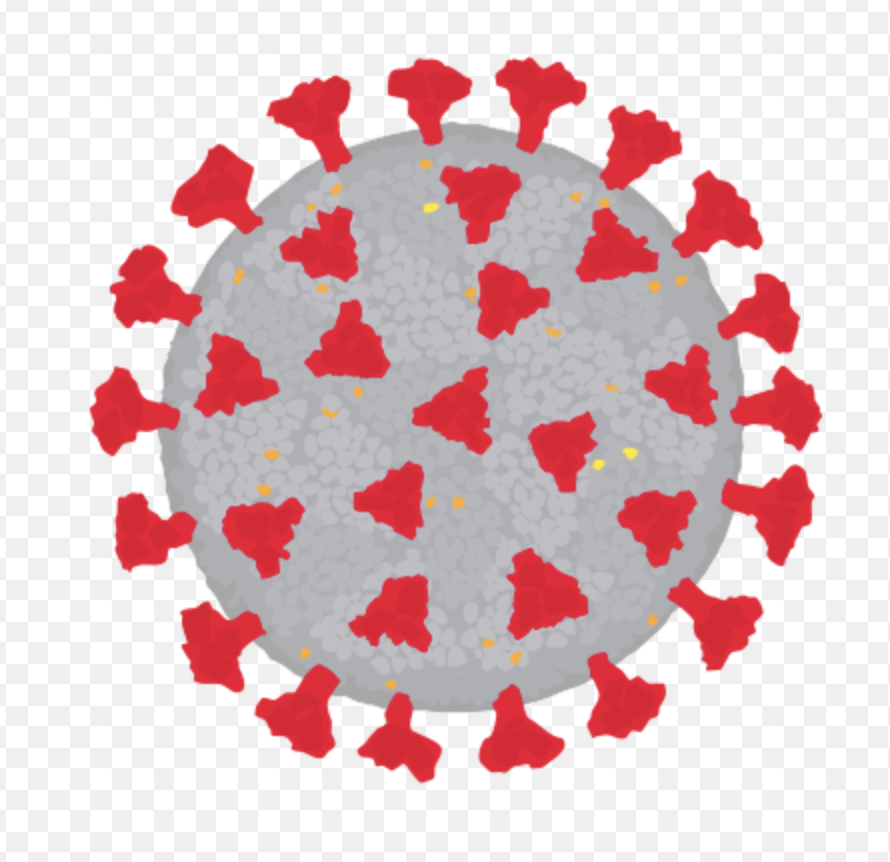
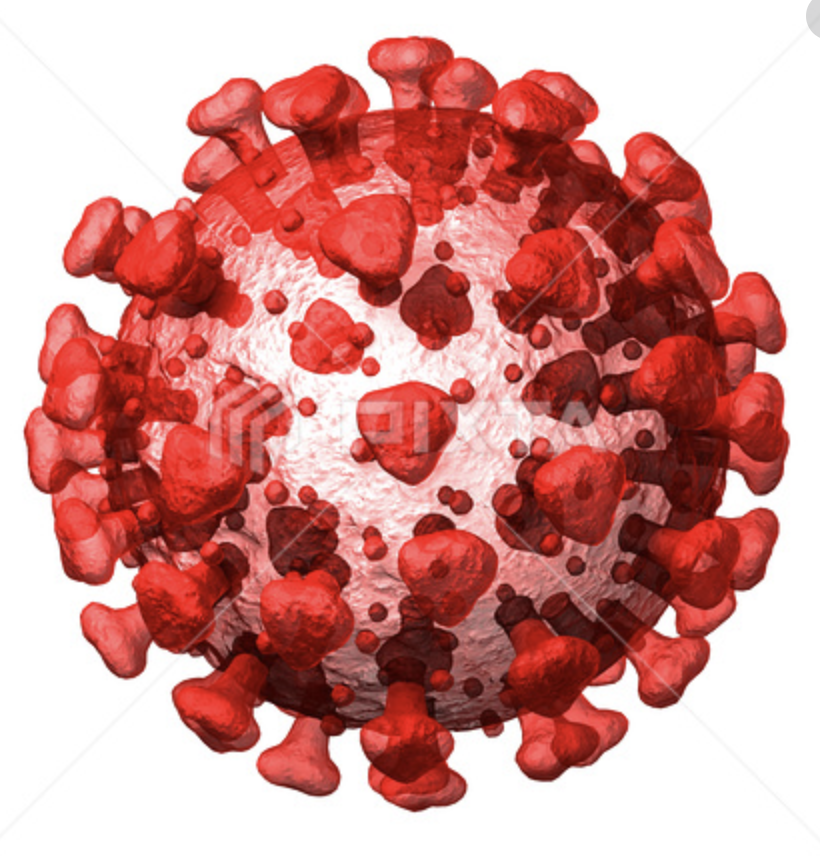
addedImages

diff --git a/public/index.html b/public/index.html
@@ -2,7 +2,7 @@
 <html lang="en">
   <head>
     <meta charset="utf-8" />
-    <link rel="icon" href="%PUBLIC_URL%/favicon.ico" />
+    <link rel="icon" href="%PUBLIC_URL%/corona.png" />
     <meta name="viewport" content="width=device-width, initial-scale=1" />
     <meta name="theme-color" content="#000000" />
     <meta
